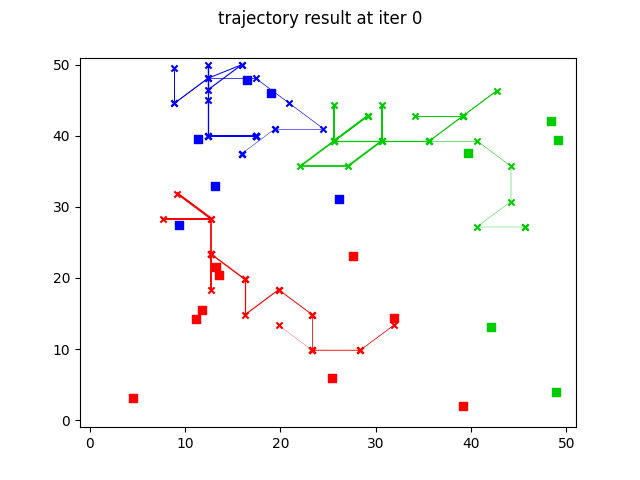
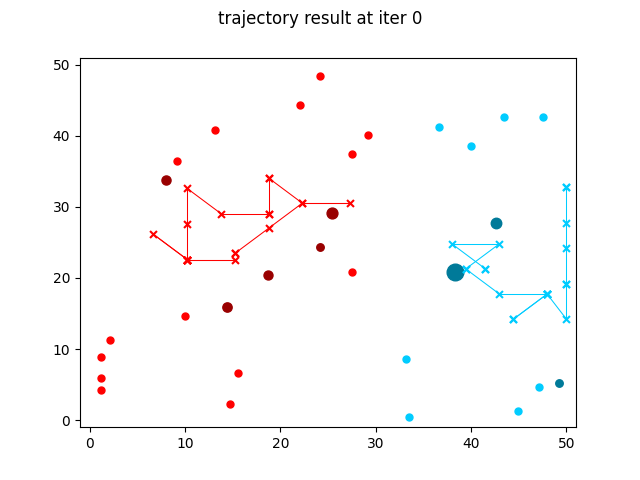
modify: mark device according to throughput

diff --git a/WPCN_UAV/2021_11_Multi_UAV/throughputTest.py b/WPCN_UAV/2021_11_Multi_UAV/throughputTest.py
@@ -100,6 +100,23 @@ def moveUAV(q, directionList, N, L, width, height):
             # update new q
             q[l * (N+1) + t+1] = [l, t+1, new_X, new_Y, new_H]
 
+# change color
+def changeColor(colorCode, k):
+    r = colorCode[1:3]
+    g = colorCode[3:5]
+    b = colorCode[5:7]
+
+    result = '#'
+	
+    for x in [r, g, b]:
+        x = int(x, 16)
+        x = min(int(x * k), 255)
+        x = hex(x)
+        
+        result += '0'*(2 - len(x[2:])) + x[2:]
+        
+    return result
+
 def throughputTest(M, T, N, L, devices, width, height, H,
                    ng, fc, B, o2, b1, b2, alphaP, alphaL, mu1, mu2, s, PD, PU,
                    iterationCount, minThroughputList):
@@ -176,7 +193,8 @@ def throughputTest(M, T, N, L, devices, width, height, H,
     # speed of light
     c = 300000000
 
-    minthroughputs = []
+    minthroughputs  = []
+    all_throughputs = []
     
     for l in range(L):
 
@@ -246,11 +264,25 @@ def throughputTest(M, T, N, L, devices, width, height, H,
         
         print('===============\n\n')
 
+        # save at all_throughputs
+        all_throughputs += throughputs
+
     # create min throughput information
     print('\n\nMIN THROUGHPUTS for each cluster l:')
     print(str(list(np.round_(minthroughputs, 6))))
 
     minThroughputList.append([iterationCount] + minthroughputs)
+
+    # print all_throughputs
+    all_throughputs = np.array(all_throughputs)
+
+    print('\n\nall throughputs:')
+    print(np.round_(all_throughputs, 6))
+
+    all_throughputs = (all_throughputs - np.min(all_throughputs)) / (np.max(all_throughputs) - np.min(all_throughputs))
+
+    print('\n\n(normalized) all throughputs:')
+    print(np.round_(all_throughputs, 6))
 
     # save trajectory graph
     plt.clf()
@@ -258,21 +290,30 @@ def throughputTest(M, T, N, L, devices, width, height, H,
     plt.axis([-1, width+1, -1, height+1])
 
     # w = [[l, k, xkl, ykl, 0], ...]
-    for di in w:
-        plt.scatter(di[2], di[3], s=30, marker='s', c=markerColors[di[0]])
+    for i in range(len(w)):
+
+        # device throughput = 0
+        if all_throughputs[i] == 0:
+            plt.scatter(w[i][2], w[i][3], s=25,
+                        marker='o', c=markerColors[w[i][0]])
+
+        # device throughput > 0
+        else:
+            plt.scatter(w[i][2], w[i][3],
+                        s=int(pow(5.0 + all_throughputs[i] * 7.0, 2.0)),
+                        marker='o', c=changeColor(markerColors[w[i][0]], 0.6))
 
     # q = [[l, t, xlt, ylt, hlt], ...]
     for l in range(L):
         for t in range(N+1):
             ind = l * (N+1) + t
-            lineWidth = 0.2 + 1.3 * t / (N+1)
-            
-            plt.scatter(q[ind][2], q[ind][3], s=20, marker='x', c=markerColors[l])
+           
+            plt.scatter(q[ind][2], q[ind][3], s=25, marker='x', c=markerColors[l])
 
             if t < N:
                 x = [q[ind][2], q[ind+1][2]]
                 y = [q[ind][3], q[ind+1][3]]
-                plt.plot(x, y, linewidth=lineWidth, c=markerColors[l])
+                plt.plot(x, y, linewidth=0.75, c=markerColors[l])
 
     # save the figure
     plt.savefig('trajectory_iter' + ('%04d' % iterationCount))
